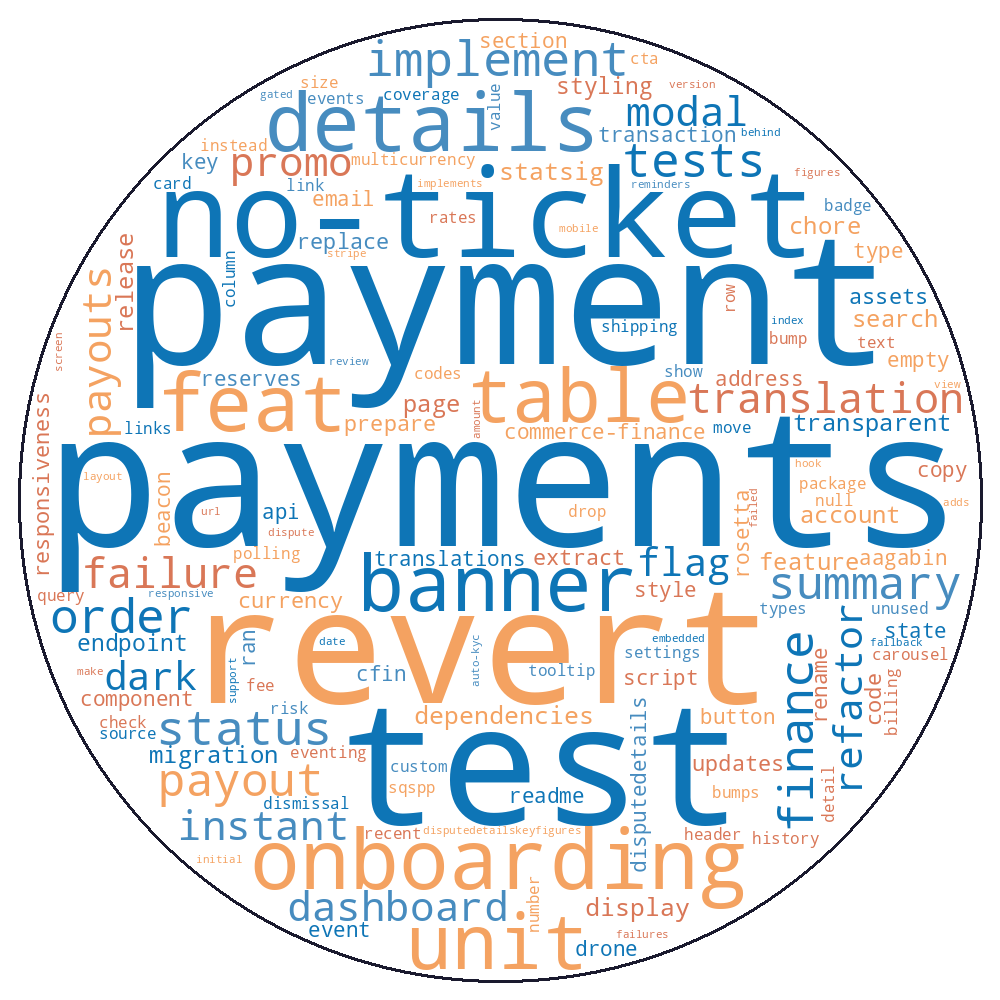
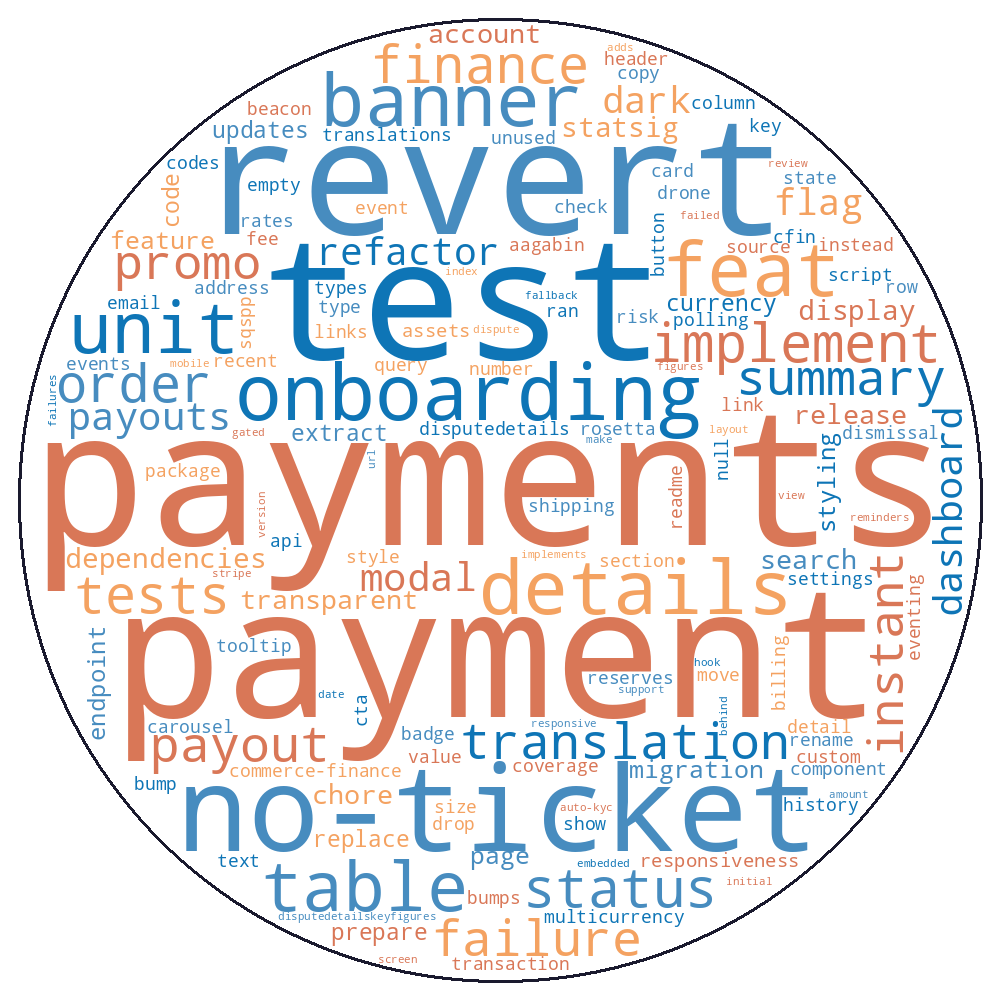
Revert wordcloud to packed circle, drop alt-time-measurement lines
- generate_wordcloud.py: back to the circular mask + dense packing
  look (the spread-out/sparse layout experiment wasn't better).
- tenure_stats.py: removed the dog-years/pomodoro-coffees/Godot-frames
  lines from both tenure sections -- back to the two clean lines per
  section (elapsed time, then work-time-equivalent for Squarespace).

diff --git a/.github/scripts/tenure_stats.py b/.github/scripts/tenure_stats.py
@@ -43,19 +43,6 @@ def format_units(total_seconds: float) -> str:
     )
 
 
-def dog_years(total_seconds: float) -> float:
-    return (total_seconds / YEAR_SECONDS) * 7
-
-
-def godot_frames_at_60fps(total_seconds: float) -> str:
-    return scaled(total_seconds * 60)
-
-
-def pomodoro_coffees(total_seconds: float) -> str:
-    """One coffee per 25-minute pomodoro."""
-    return scaled(total_seconds / (25 * 60))
-
-
 def repo_commit_count() -> int:
     result = subprocess.run(
         ["git", "rev-list", "--count", "HEAD"],
@@ -150,15 +137,11 @@ def main() -> None:
     sqsp_body = (
         f"<sub>🎉 <em>That's {format_units(sqsp_elapsed_seconds)} of being a Squarespace SWE.</em></sub>\n\n"
         f"<sub>💼 <em>Of that, {format_units(work_hours * HOUR_SECONDS)} has actually been spent "
-        f"working (8 hrs/weekday, minus Squarespace holidays).</em></sub>\n\n"
-        f"<sub>🐕 <em>In dog years, that's {dog_years(sqsp_elapsed_seconds):,.1f} years. "
-        f"☕ Or about {pomodoro_coffees(sqsp_elapsed_seconds)} pomodoro-coffees (one cup per 25-minute pomodoro). "
+        f"working (8 hrs/weekday, minus Squarespace holidays). "
         f"(last updated {last_updated})</em></sub>"
     )
     coding_body = (
-        f"<sub>👨💻 <em>That's {format_units(coding_elapsed_seconds)} of coding (allegedly).</em></sub>\n\n"
-        f"<sub>🎮 <em>At 60 FPS, that's {godot_frames_at_60fps(coding_elapsed_seconds)} Godot frames' worth of dev "
-        f"time. 🐕 Or {dog_years(coding_elapsed_seconds):,.1f} dog-years of debugging. "
+        f"<sub>👨💻 <em>That's {format_units(coding_elapsed_seconds)} of coding (allegedly). "
         f"(last updated {last_updated})</em></sub>"
     )
     bug_count = repo_commit_count()

diff --git a/README.md b/README.md
@@ -7,17 +7,13 @@
   <!--START_SECTION:tenure-squarespace-->
   <sub>🎉 <em>That's 2.3 years / 27.6 months / 838.8 days / 20.1K hours / 1.2M minutes / 72.5M seconds of being a Squarespace SWE.</em></sub>
 
-  <sub>💼 <em>Of that, 0.5 years / 6.3 months / 192.0 days / 4.6K hours / 276.5K minutes / 16.6M seconds has actually been spent working (8 hrs/weekday, minus Squarespace holidays).</em></sub>
-
-  <sub>🐕 <em>In dog years, that's 16.1 years. ☕ Or about 48.3K pomodoro-coffees (one cup per 25-minute pomodoro). (last updated 2026/08/31 19:08 UTC)</em></sub>
+  <sub>💼 <em>Of that, 0.5 years / 6.3 months / 192.0 days / 4.6K hours / 276.5K minutes / 16.6M seconds has actually been spent working (8 hrs/weekday, minus Squarespace holidays). (last updated 2026/08/31 19:35 UTC)</em></sub>
   <!--END_SECTION:tenure-squarespace-->
 
 - <img src="https://raw.githubusercontent.com/ArcFlu/ArcFlu/main/.github/assets/ucf-logo.png" alt="UCF" width="15" height="20" align="center" /> I've been coding since Monday, August 24, 2020, when I started as a Freshman in Computer Science at the University of Central Florida.
 
   <!--START_SECTION:tenure-coding-->
-  <sub>👨💻 <em>That's 6.0 years / 72.2 months / 2.2K days / 52.8K hours / 3.2M minutes / 190.0M seconds of coding (allegedly).</em></sub>
-
-  <sub>🎮 <em>At 60 FPS, that's 11.4B Godot frames' worth of dev time. 🐕 Or 42.1 dog-years of debugging. (last updated 2026/08/31 19:08 UTC)</em></sub>
+  <sub>👨💻 <em>That's 6.0 years / 72.2 months / 2.2K days / 52.8K hours / 3.2M minutes / 190.0M seconds of coding (allegedly). (last updated 2026/08/31 19:35 UTC)</em></sub>
   <!--END_SECTION:tenure-coding-->
 
 - ⭐ Check out my [personal website!](https://aldrich-agabin.squarespace.com)
@@ -119,7 +115,7 @@
 ![Total Commits](https://github-stats-extended.vercel.app/api?username=arcflu&show_icons=false&hide=stars,issues,contribs&include_all_commits=true&hide_title=true&hide_border=true)
 
 <!--START_SECTION:bug-counter-->
-<sub>🐛 <em>Bugs shipped to this repo (lifetime): 928 (allegedly, one per commit). 🔧 Bugs fixed: 927. 📉 Net: we're perpetually 1 bug behind. (last updated 2026/08/31 19:08 UTC)</em></sub>
+<sub>🐛 <em>Bugs shipped to this repo (lifetime): 930 (allegedly, one per commit). 🔧 Bugs fixed: 929. 📉 Net: we're perpetually 1 bug behind. (last updated 2026/08/31 19:35 UTC)</em></sub>
 <!--END_SECTION:bug-counter-->
 
 <!--START_SECTION:waka-top-->
